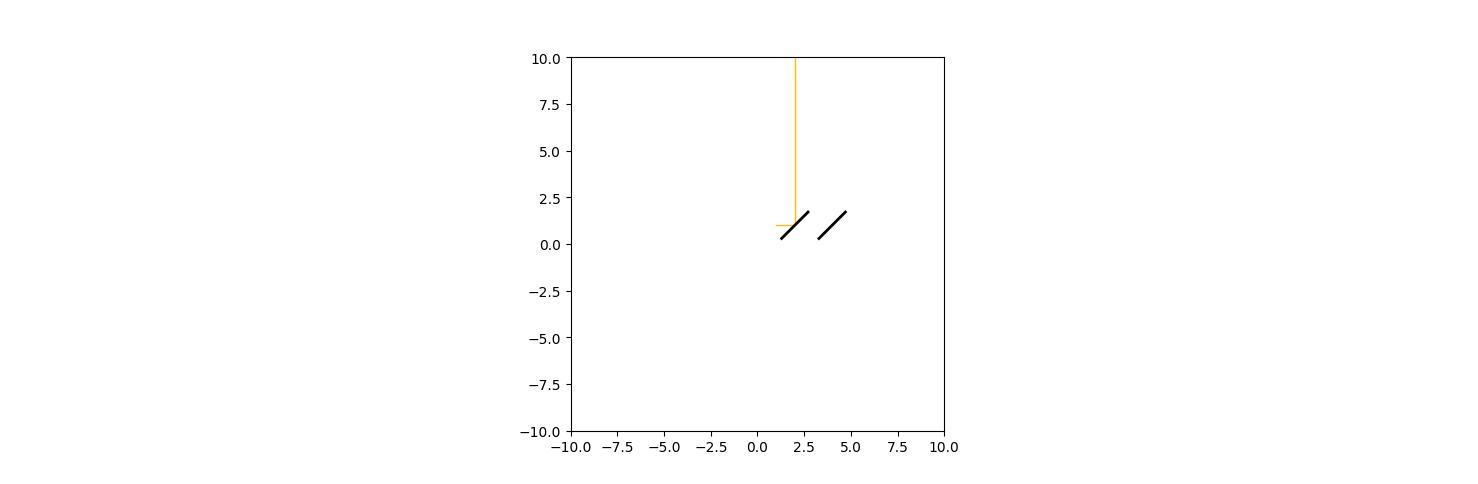
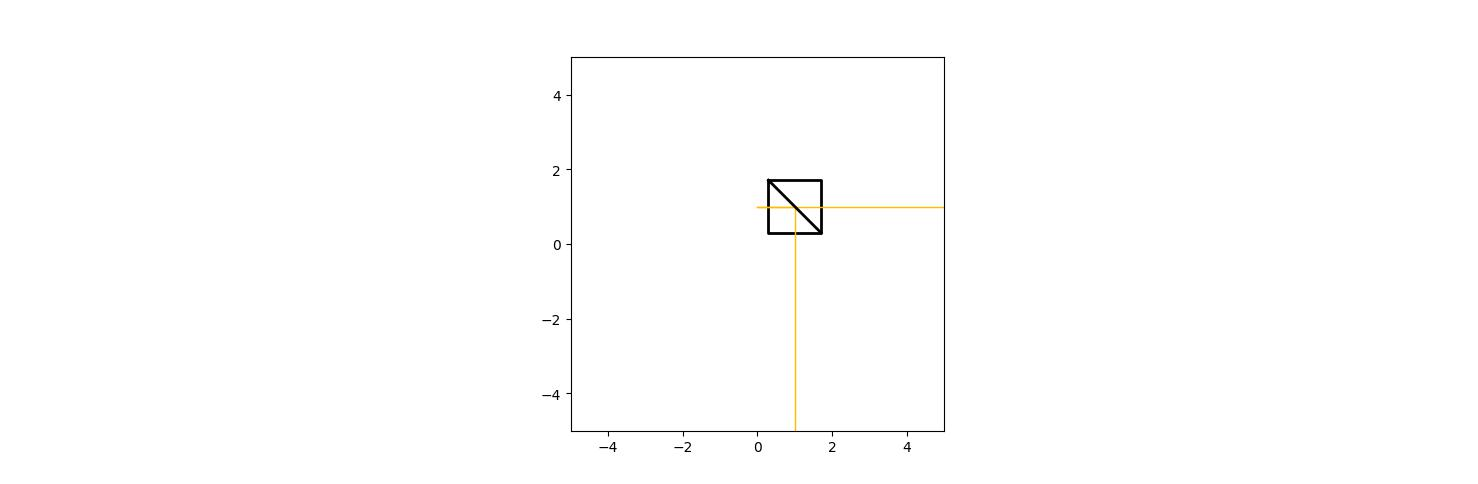
up

diff --git a/app.py b/app.py
@@ -18,7 +18,8 @@ from PyQt5.QtWidgets import (
     QLineEdit,
     QSpinBox,
     QComboBox,
-    QDoubleSpinBox
+    QDoubleSpinBox,
+    QGroupBox
 )
 
 # from layout_colorwidget import Color
@@ -27,6 +28,7 @@ class MplCanvas(FigureCanvasQTAgg):
     def __init__(self, parent=None, width=200, height=200, dpi=100):
         self.fig = Figure(figsize=(width, height), dpi=dpi)
         self.axes = self.fig.add_subplot(111)
+        self.axes.set_aspect('equal', adjustable='box')
         # self.axes.set_xlim(-3,4)
         # self.axes.set_ylim(-3,4)
 
@@ -83,61 +85,111 @@ class MainWindow(QMainWindow):
         # qbtn.setText("Validate")
         # qbtn.clicked.connect(self.set_wvl)
 
+        wvl_btn_layout = QVBoxLayout()
+        
+        lblName = QLabel("Wavelength (nm):")
         self.dialog = QDoubleSpinBox()
-        lblName = QLabel(self.dialog)
-        lblName.setText("Wavelength : ")
-        self.dialog.setAlignment(Qt.AlignTop)
+
         self.dialog.setMinimum(400)
         self.dialog.setMaximum(700)
 
-        # qbtn = QPushButton()
-        # qbtn.setText("Validate")
         self.dialog.valueChanged.connect(self.set_wvl)
 
-        first_btn_layout.addWidget(self.dialog)
+        # Add widgets
+        wvl_btn_layout.addWidget(lblName)
+        wvl_btn_layout.addWidget(self.dialog)
+
+        # 🔥 Remove all extra space
+        wvl_btn_layout.setContentsMargins(0, 0, 0, 0)
+        wvl_btn_layout.setSpacing(0)
+
+        # Align label tightly
+        lblName.setAlignment(Qt.AlignLeft | Qt.AlignBottom)
+        # self.dialog.setAlignment(Qt.AlignLeft | Qt.AlignTop)
+        first_btn_layout.addLayout(wvl_btn_layout)
+
         # first_btn_layout.addWidget(qbtn)
 
         # get polarization
 
+        pol_button_layout = QVBoxLayout()
         self.dialog_pol = QLineEdit()
-        lblName_pol = QLabel(self.dialog_pol)
-        lblName_pol.setText("Polarization : ")
+        lblName_pol = QLabel("Polarization : ")
+        # lblName_pol.setText("Polarization : ")
 
         qbtn_pol = QPushButton()
-        qbtn_pol.setText("Validate Pol")
+        qbtn_pol.setText("Validate polarization")
         qbtn_pol.clicked.connect(self.set_polarization)
 
-        first_btn_layout.addWidget(self.dialog_pol)
-        first_btn_layout.addWidget(qbtn_pol)
+        # pol_button_layout.addWidget()
+        pol_button_layout.addWidget(lblName_pol)
+        pol_button_layout.addWidget(self.dialog_pol)
+        pol_button_layout.addWidget(qbtn_pol)
+
+        # 🔥 Remove all extra space
+        pol_button_layout.setContentsMargins(0, 0, 0, 0)
+        pol_button_layout.setSpacing(0)
+        lblName_pol.setAlignment(Qt.AlignLeft | Qt.AlignBottom)
+        first_btn_layout.addLayout(pol_button_layout)
 
         #get k vector
 
+        # self.dialog_k = QLineEdit()
+        # lblName_k = QLabel(self.dialog_k)
+        # lblName_k.setText("k-vector : ")
+        # qbtn_k = QPushButton()
+        # qbtn_k.setText("Validate")
+        # qbtn_k.clicked.connect(self.set_k_vector)
+
+        # # self.dialog_k = QDoubleSpinBox()
+        # # lblName_k = QLabel(self.)
+        # # lblName_k.setText("Wavelength : ")
+
+        # first_btn_layout.addWidget(self.dialog_k)
+        # first_btn_layout.addWidget(qbtn_k)
+
+        k_button_layout = QVBoxLayout()
         self.dialog_k = QLineEdit()
-        lblName_k = QLabel(self.dialog_k)
-        lblName_k.setText("k-vector : ")
+        lblName_k = QLabel("k vector : ")
+        # lblName_pol.setText("Polarization : ")
+
         qbtn_k = QPushButton()
-        qbtn_k.setText("Validate")
+        qbtn_k.setText("Validate polarization")
         qbtn_k.clicked.connect(self.set_k_vector)
 
-        # self.dialog_k = QDoubleSpinBox()
-        # lblName_k = QLabel(self.)
-        # lblName_k.setText("Wavelength : ")
+        # pol_button_layout.addWidget()
+        k_button_layout.addWidget(lblName_k)
+        k_button_layout.addWidget(self.dialog_k)
+        k_button_layout.addWidget(qbtn_k)
+        
+        # 🔥 Remove all extra space
+        k_button_layout.setContentsMargins(0, 0, 0, 0)
+        k_button_layout.setSpacing(0)
+        lblName_k.setAlignment(Qt.AlignLeft | Qt.AlignBottom)
+        first_btn_layout.addLayout(k_button_layout)
 
-        first_btn_layout.addWidget(self.dialog_k)
-        first_btn_layout.addWidget(qbtn_k)
 
         #get initial position
 
+        pos_layout = QVBoxLayout()
         self.dialog_pos = QLineEdit()
-        lblName_pos = QLabel(self.dialog_pos)
-        lblName_pos.setText("position_init : ")
+        lblName_pos = QLabel("position_init : ")
+        # lblName_pos.setText("position_init : ")
+
         qbtn_pos = QPushButton()
-        qbtn_pos.setText("Validate")
+        qbtn_pos.setText("Validate position")
         qbtn_pos.clicked.connect(self.set_position_init)
+        
+        pos_layout.addWidget(lblName_pos)
 
-        first_btn_layout.addWidget(self.dialog_pos)
-        first_btn_layout.addWidget(qbtn_pos)
+        pos_layout.addWidget(self.dialog_pos)
+        pos_layout.addWidget(qbtn_pos)
+        
+        pos_layout.setContentsMargins(0, 0, 0, 0)
+        pos_layout.setSpacing(0)
+        lblName_pos.setAlignment(Qt.AlignLeft | Qt.AlignBottom)
 
+        first_btn_layout.addLayout(pos_layout)
         button_layout.addLayout(first_btn_layout)
 
         #get and set optical elements
@@ -326,7 +378,7 @@ class MainWindow(QMainWindow):
 
 app = QApplication(sys.argv)
 
-window = MainWindow()
+window = MainWindow()   
 window.show()
 
 app.exec()

diff --git a/Optics.py b/Optics.py
@@ -337,6 +337,21 @@ class TableOptique(dict):
                     #  plt.plot(xa, ya, color="black", linewidth=2, label="Axis") 
                     plt.plot(xc, yc, color="magenta", linewidth=3, alpha=0.5)
                     plt.plot(xa, ya, color="black", linewidth=2) 
+                custom_name = getattr(optics, 'name', None)
+
+                if custom_name: 
+                    label_text = custom_name
+                else:
+                    if isinstance(optics,Mirror): 
+                        label_text = "Mirror"
+                    elif isinstance(optics, BeamSplitter):
+                        label_text = "BS"
+                    elif isinstance(optics, Polarizer):
+                        label_text = f"Pol {optics.angle_deg}°"
+                print("draw_etx")
+                x_cen, y_cen = self[optics]
+                plt.text(x_cen + 1 ,y_cen + 1, label_text, color = 'black', fontsize = 9, ha = 'center', fontweight = 'bold')
+
         else:
             print('test')
             for optics in self.keys():
@@ -362,19 +377,20 @@ class TableOptique(dict):
                     ax.plot(xc, yc, color="magenta", linewidth=3, alpha=0.5)
                     ax.plot(xa, ya, color="black", linewidth=2) 
             
-            custom_name = getattr(optics, 'name', None)
+                custom_name = getattr(optics, 'name', None)
 
-            if custom_name: 
-                label_text = custom_name
-            else:
-                if isinstance(optics,Mirror): 
-                    label_text = "Mirror"
-                elif isinstance(optics, BeamSplitter):
-                    label_text = "BS"
-                elif isinstance(optics, Polarizer):
-                    label_text = f"Pol {optics.angle_deg}°"
-            x_cen, y_cen = self[optics]
-            plt.text(x_cen + 1 ,y_cen + 1, label_text, color = 'black', fontsize = 9, ha = 'center', fontweight = 'bold')
+                if custom_name: 
+                    label_text = custom_name
+                else:
+                    if isinstance(optics,Mirror): 
+                        label_text = "Mirror"
+                    elif isinstance(optics, BeamSplitter):
+                        label_text = "BS"
+                    elif isinstance(optics, Polarizer):
+                        label_text = f"Pol {optics.angle_deg}°"
+                print("draw_etx")
+                x_cen, y_cen = self[optics]
+                plt.text(x_cen + 1 ,y_cen + 1, label_text, color = 'black', fontsize = 9, ha = 'center', fontweight = 'bold')
 
         #matplotlib adjustments
         xlim, ylim = self.size

diff --git a/main.py b/main.py
@@ -50,6 +50,6 @@ table.add(P2, (5 ,0))
 # table.add(P2, (-2.5, -2.5))
 
 table.draw()
-table.draw_laser(rayon, (0,0))
+# table.draw_laser(rayon, (0,0))
 table.report(rayon, (0,0), "test.txt")
 plt.show()
